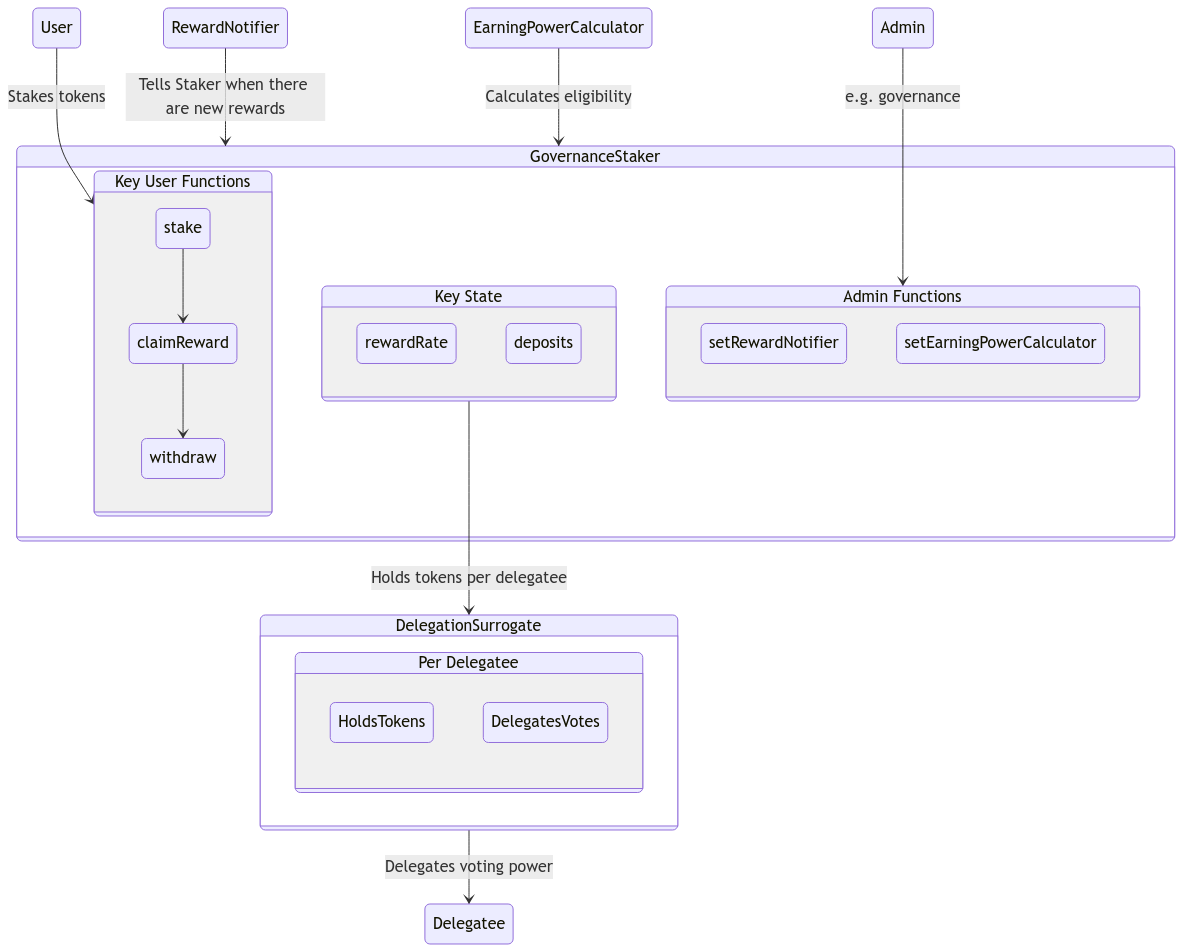
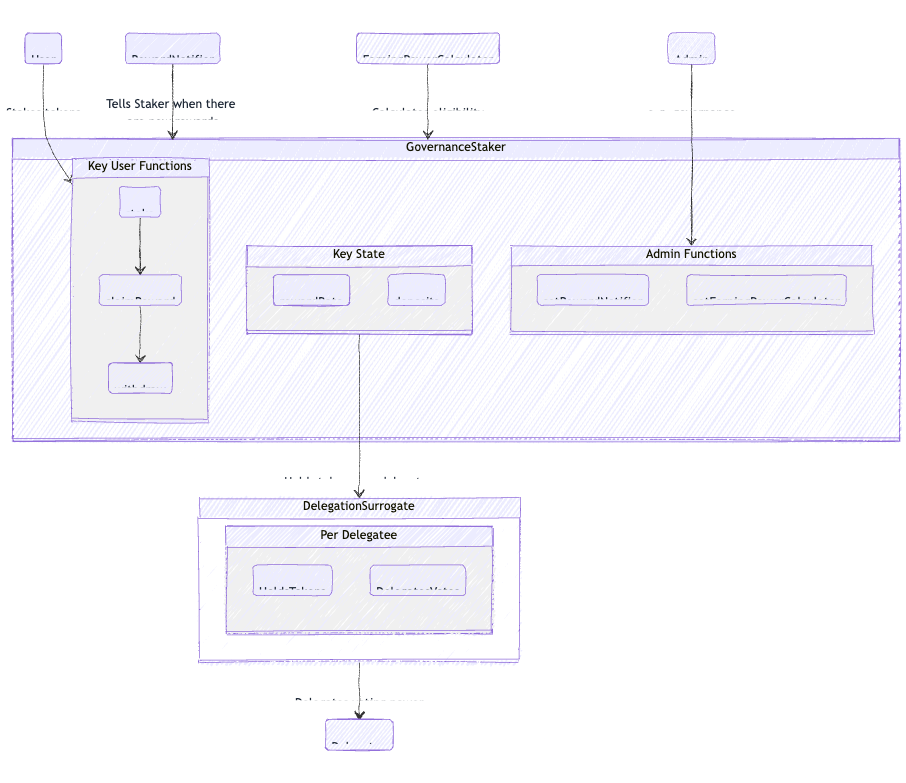
GITBOOK-605: change request with no subject merged in GitBook

diff --git a/premium-features/staker.md b/premium-features/staker.md
@@ -1,6 +1,6 @@
 ---
-description: Staker is the crypto-native way to align protocols with token holders
 icon: money-bill-transfer
+description: Staker is the crypto-native way to align protocols with token holders
 ---
 
 # Staker
@@ -49,6 +49,10 @@ Staker is an immutable contract with minimal admin powers. It does have two admi
 The admin of a Staker is usually the protocol's governance.
 
 #### **Implementation details**
+
+Here's an architecture diagram of the smart contracts:
+
+<figure><img src="../.gitbook/assets/governance-staking.png" alt=""><figcaption></figcaption></figure>
 
 * Governance Staking is out-of-the-box compatible with existing \`ERC20Votes\` governance tokens. It supports \`ERC20Votes\` delegation with the "surrogate factory" pattern. Governance Staking creates a surrogate contract for each delegate. It delegates voting power in each surrogate to the delegate.
 * Whenever Governance Staking receives rewards, it distributes them over a period of time. Distributing over time gives unstaked tokenholders a chance to stake. A smooth schedule also minimizes discontinuities from flash staking.

diff --git a/knowledge-base/staking-on-tally.md b/knowledge-base/staking-on-tally.md
@@ -30,7 +30,7 @@ In Governance Staking, tokenholders may – and often must – use their staked 
 * Whenever Governance Staking receives rewards, it distributes them over a period of time. Distributing over time gives unstaked tokenholders a chance to stake. A smooth schedule also minimizes discontinuities from flash staking.
 * The Governance Staking contract builds on [UniStaker](https://github.com/uniswapfoundation/UniStaker). Unistaker is based on Syntheix's [StakingRewards](https://github.com/Synthetixio/synthetix/blob/develop/contracts/StakingRewards.sol).
 
-![](<../.gitbook/assets/governance-staking (1).png>)
+![](<../.gitbook/assets/governance-staking (1) (1).png>)
 
 **FAQ**
 
